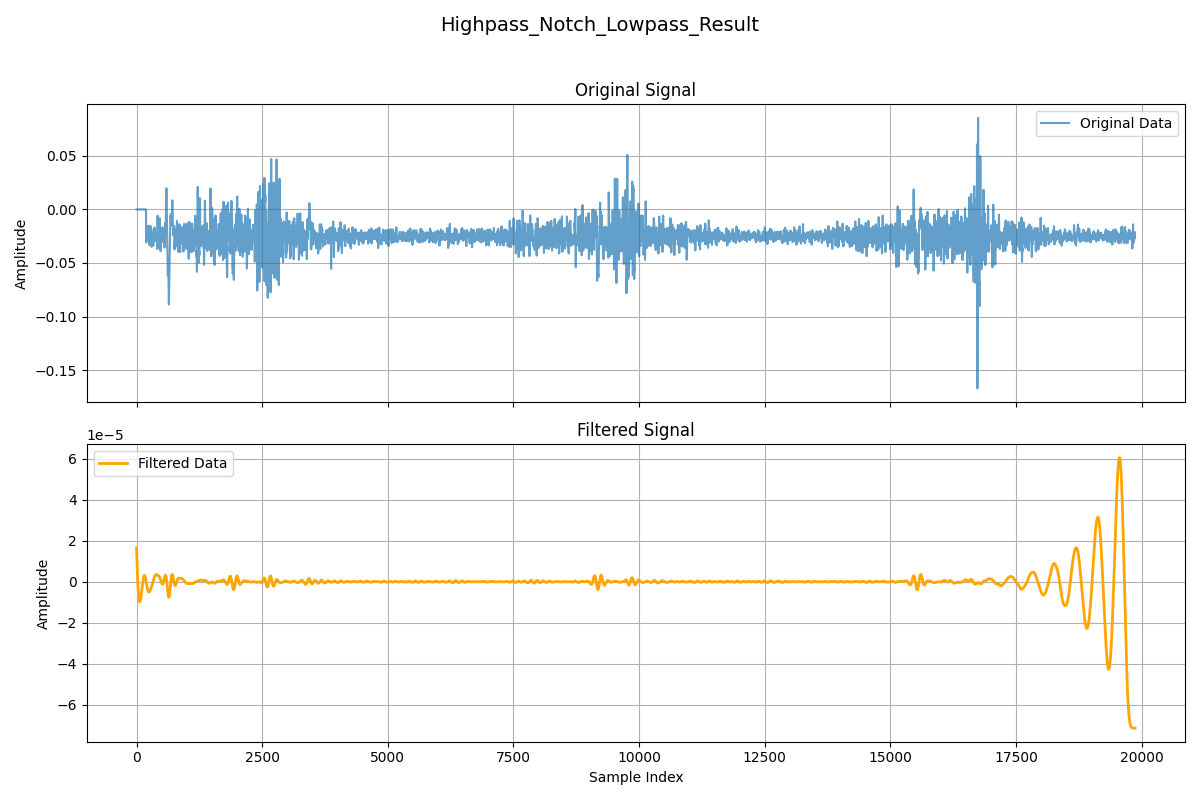
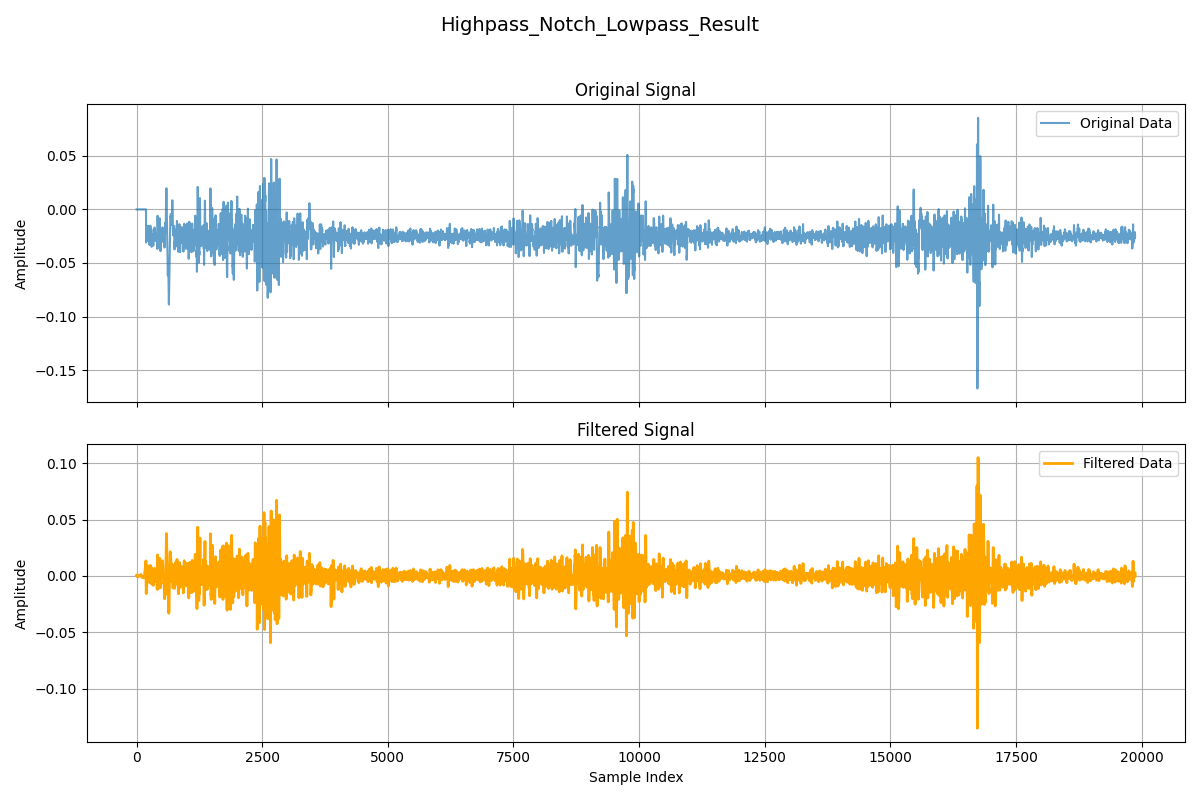
Added windowed RMS

diff --git a/Filtering.py b/Filtering.py
@@ -105,12 +105,22 @@ class filtering:
 
         return freqs, magnitude
 
+    def Windowed_RMS(self, filtered_data, window_size=100):
+        rms_values = []
+        for i in range(0, len(filtered_data), window_size):
+            window = filtered_data[i:i+window_size]
+            rms = np.sqrt(np.mean(np.square(window)))
+            rms_values.append(rms)
+        return rms_values
+
 if __name__ == "__main__":
     # Sample rate
     sample_rate = 2148  # Hz
     # Cutoff Fequencies
-    low_cutoff = 10  # Hz
-    high_cutoff = 20  # Hz
+    #low_cutoff = 10  # Hz
+    #high_cutoff = 20  # Hz
+    high_cutoff = 20
+    low_cutoff = 300
     notch_freq = 50  # Hz
     order = 6  # Order of the filter
 
@@ -166,6 +176,26 @@ if __name__ == "__main__":
             filter_instance.ButterworthHighPass(data, cutoff=high_cutoff, order=order), notch_freq=notch_freq), cutoff=low_cutoff, order=order)
     print(f"Combined filter processing time: {time.time() - start_time:.4f} seconds")
     filter_instance.PlotFilter(data, combined_filtered_data_3, title="Highpass_Notch_Lowpass_Result", savepath=savepath)
+
+    # band-pass filter
+    start_time = time.time()
+    band_passed_data = filter_instance.ButterworthBandPassFilter(data, lowcut=high_cutoff, highcut=low_cutoff, order=order)
+    print(f"Band-pass filter processing time: {time.time() - start_time:.4f} seconds")
+    filter_instance.PlotFilter(data, band_passed_data, title="Band-Pass_Filter_Result", savepath=savepath)
+
+    # RMS on band-passed data
+    rms_value = filter_instance.Windowed_RMS(band_passed_data, window_size=100)
+    #plot RMS signal
+    plt.figure(figsize=(12, 4))
+    plt.plot(rms_value, label='RMS of Band-Passed Signal', color='green')
+    plt.title("Windowed RMS of Band-Passed Signal")
+    plt.xlabel("Window Index")
+    plt.ylabel("RMS Value")
+    plt.legend()
+    plt.grid(True)
+    plt.savefig(savepath + "RMS_Band-Pass_Signal.png")
+    plt.show()
+    
 
 
 
